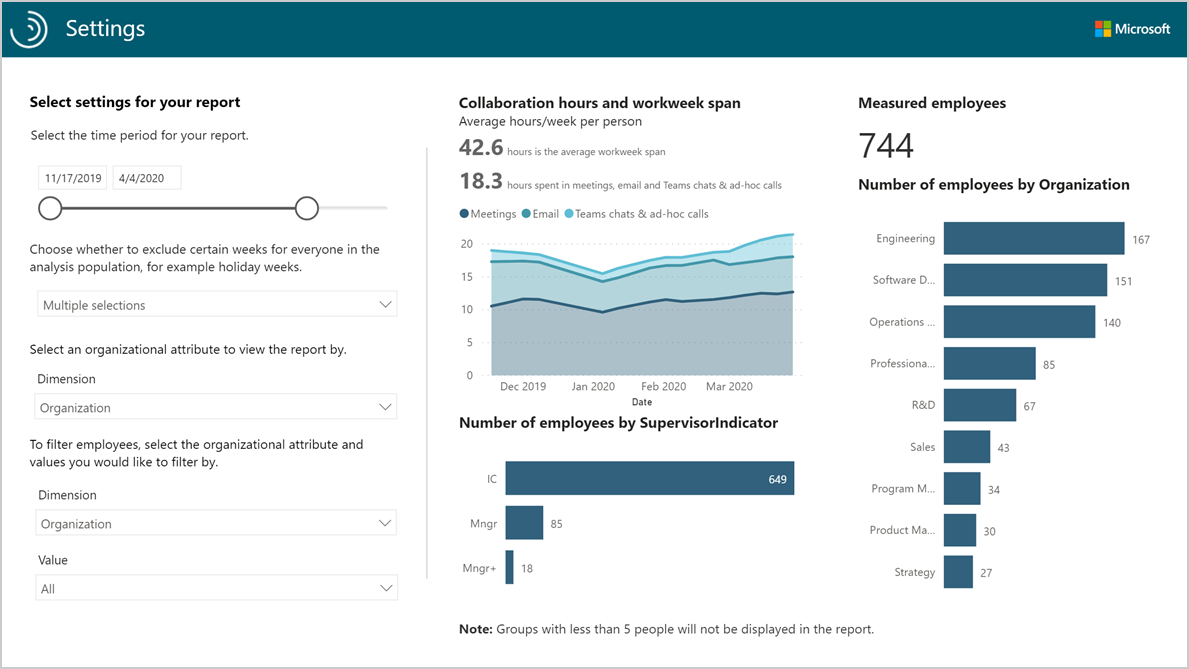
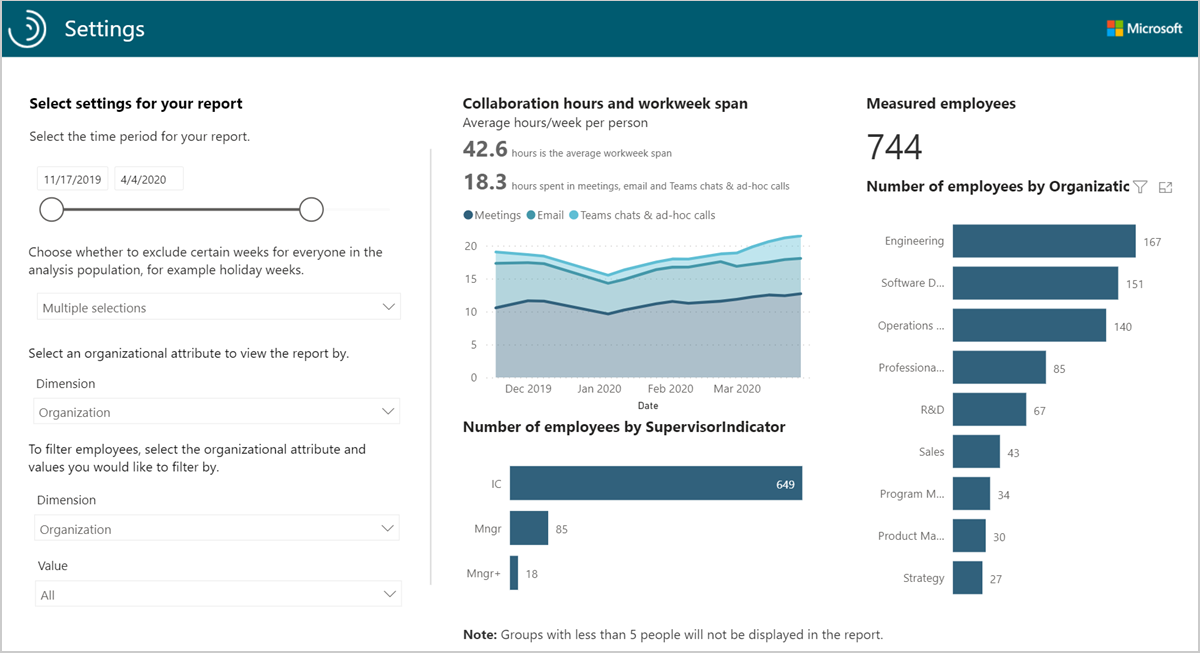
new screenshots for pbi docs

diff --git a/WorkplaceAnalytics/Tutorials/power-bi-collab-track.md b/WorkplaceAnalytics/Tutorials/power-bi-collab-track.md
@@ -64,9 +64,12 @@ Before you can run the queries and populate the dashboard in Power BI, you must:
 
 6. Select **Run** to run the query, which can take a few minutes to complete.
 7. In **Queries** > **Results**, after both queries successfully run, select the **Download** icon for the **Ways of working tracker** query results, select **PBI template**, and then select **OK** to download the template.
+
+    ![Download the Power BI Ways of working tracker template](../Images/WpA/Tutorials/pbi-download-tracker.png)
+
 8. Open the downloaded **Ways of working tracker Power BI template**.
 9. If prompted to select a program, select **Power BI**.
-10.	When prompted by Power BI:
+10. When prompted by Power BI:
 
     * In the Workplace Analytics **Queries** > **Results** page, select the **Link** icon for the Ways of working tracker query, and then select to copy the generated OData URL link.
     * In Power BI, paste the copied link into its respective field.
@@ -100,7 +103,7 @@ After the Ways of working tracker dashboard is set up and populated with Workpla
 
 After confirming the settings, check the number of measured employees to confirm this is the population you want to analyze.
 
-  ![Ways of working tracker dashboard settings](../Images/WpA/Tutorials/track-settings.png)
+  ![Ways of working tracker dashboard settings](../Images/WpA/Tutorials/tracker-settings.png)
 
 ## About the reports
 
